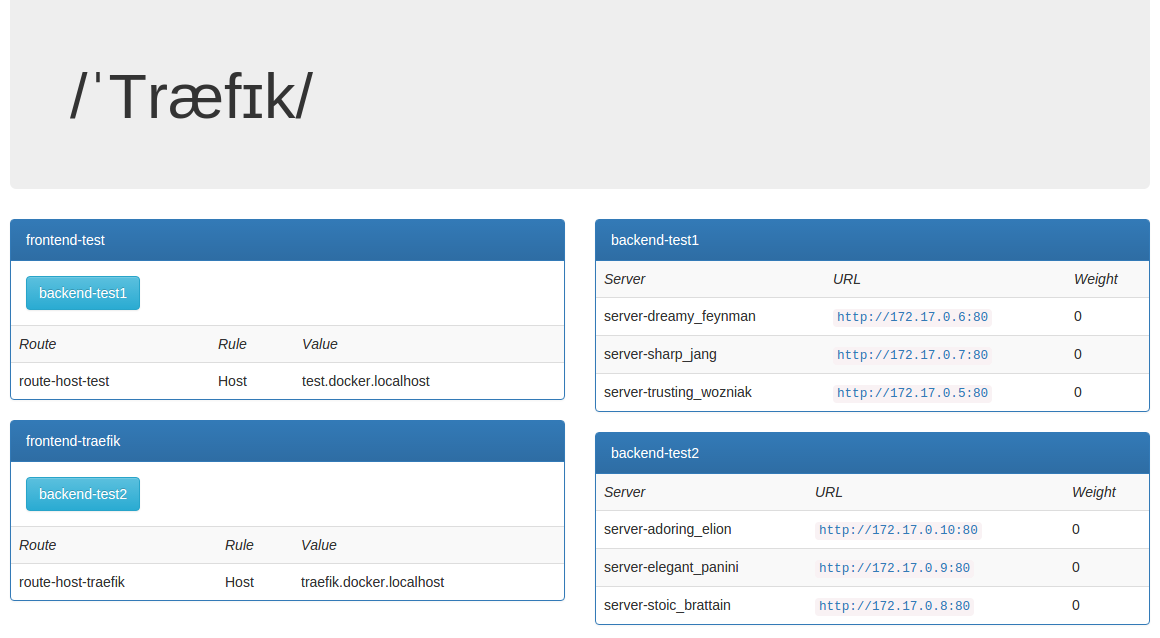
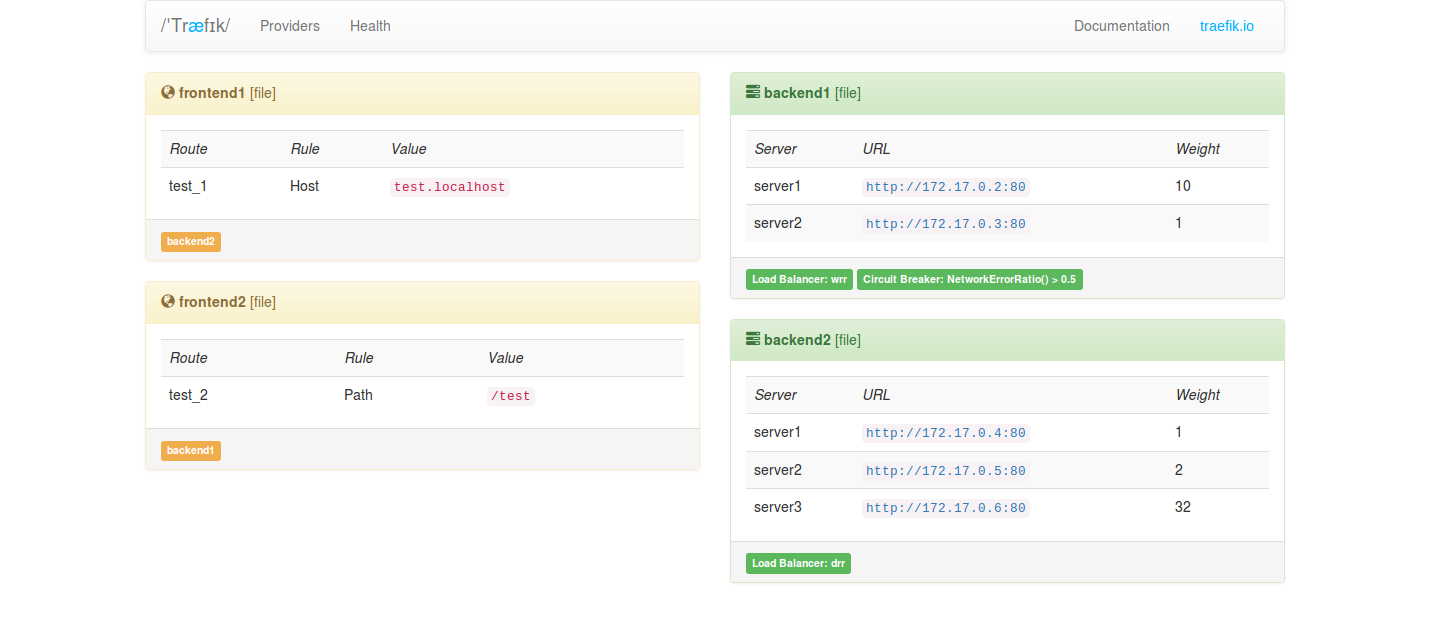
docs(dashboard): add screenshot
- doc style review
- add section "Web UI" with screenshot

diff --git a/README.md b/README.md
@@ -10,74 +10,79 @@ Træfɪk is a modern HTTP reverse proxy and load balancer made to deploy microse
 It supports several backends ([Docker :whale:](https://www.docker.com/), [Mesos/Marathon](https://mesosphere.github.io/marathon/), [Consul](https://consul.io/), [Etcd](https://coreos.com/etcd/), [Zookeeper](https://zookeeper.apache.org), [BoltDB](https://github.com/boltdb/bolt), Rest API, file...) to manage its configuration automatically and dynamically.
 
 
-# Features
+## Features
 
-* No dependency hell, single binary made with go
-* Simple json Rest API
-* Simple TOML file configuration
-* Multiple backends supported: Docker, Mesos/Marathon, Consul, Etcd, and more to come
-* Watchers for backends, can listen change in backends to apply a new configuration automatically
-* Hot-reloading of configuration. No need to restart the process
-* Graceful shutdown http connections during hot-reloads
-* Circuit breakers on backends
-* Round Robin, rebalancer load-balancers
-* Rest Metrics
-* Tiny docker image included
-* SSL backends support
-* SSL frontend support
-* WebUI
+- No dependency hell, single binary made with go
+- Simple json Rest API
+- Simple TOML file configuration
+- Multiple backends supported: Docker, Mesos/Marathon, Consul, Etcd, and more to come
+- Watchers for backends, can listen change in backends to apply a new configuration automatically
+- Hot-reloading of configuration. No need to restart the process
+- Graceful shutdown http connections during hot-reloads
+- Circuit breakers on backends
+- Round Robin, rebalancer load-balancers
+- Rest Metrics
+- Tiny docker image included
+- SSL backends support
+- SSL frontend support
+- WebUI
 
-# Demo
+## Demo
 
 Here is a demo of Træfɪk using Docker backend, showing a load-balancing between two servers, hot reloading of configuration, and graceful shutdown.
 
 [![asciicast](https://asciinema.org/a/4tcyde7riou5vxulo6my3mtko.png)](https://asciinema.org/a/4tcyde7riou5vxulo6my3mtko)
 
-# Plumbing
+## Plumbing
 
-* [Oxy](https://github.com/mailgun/oxy/): an awsome proxy library made by Mailgun guys
-* [Gorilla mux](https://github.com/gorilla/mux): famous request router
-* [Negroni](https://github.com/codegangsta/negroni): web middlewares made simple
-* [Manners](https://github.com/mailgun/manners): graceful shutdown of http.Handler servers
+- [Oxy](https://github.com/mailgun/oxy/): an awsome proxy library made by Mailgun guys
+- [Gorilla mux](https://github.com/gorilla/mux): famous request router
+- [Negroni](https://github.com/codegangsta/negroni): web middlewares made simple
+- [Manners](https://github.com/mailgun/manners): graceful shutdown of http.Handler servers
 
-# Quick start
+## Quick start
 
-* The simple way: grab the latest binary from the [releases](https://github.com/emilevauge/traefik/releases) page and just run it with the [sample configuration file](https://raw.githubusercontent.com/EmileVauge/traefik/master/traefik.sample.toml):
+- The simple way: grab the latest binary from the [releases](https://github.com/emilevauge/traefik/releases) page and just run it with the [sample configuration file](https://raw.githubusercontent.com/EmileVauge/traefik/master/traefik.sample.toml):
 
-```
+```shell
 ./traefik traefik.toml
 ```
 
-* Use the tiny Docker image:
+- Use the tiny Docker image:
 
-```
+```shell
 docker run -d -p 8080:8080 -p 80:80 -v $PWD/traefik.toml:/traefik.toml emilevauge/traefik
 ```
 
-* From sources:
+- From sources:
 
-```
+```shell
 git clone https://github.com/EmileVauge/traefik
 ```
 
-# Documentation
+## Documentation
 
 You can find the complete documentation [here](docs/index.md).
 
-# Benchmarks
+## Benchmarks
 
 Refer to the [benchmarks section](docs/index.md#benchmarks) in the documentation.
 
-# Contributing
+## Web UI
 
-## Building
+You can access to a simple HTML frontend of Træfik.
 
-You need either [Docker](https://github.com/docker/docker) and
-``make``, or `go` and `godep` in order to build traefik.
+![HTML frontend](docs/img/web.frontend.png)
 
-### Using Docker and Makefile
+## Contributing
 
-You need to run the ``binary`` target. This will create binaries for
+### Building
+
+You need either [Docker](https://github.com/docker/docker) and `make`, or `go` and `godep` in order to build traefik.
+
+#### Using Docker and Makefile
+
+You need to run the `binary` target. This will create binaries for
 linux and darwin platforms in the `dist` folder.
 
 ```bash
@@ -101,7 +106,7 @@ $ ls dist/
 traefik*  traefik_darwin-386*  traefik_darwin-amd64*  traefik_linux-386*  traefik_linux-amd64*  traefik_linux-arm*
 ```
 
-### Using `godep`
+#### Using `godep`
 
 The idea behind `godep` is the following :
 
@@ -125,7 +130,7 @@ $ godep go test ./...
 ok      _/home/vincent/src/github/vdemeester/traefik    0.004s
 ```
 
-## Tests
+### Tests
 
 You can run unit tests using the `test-unit` target and the
 integration test using the `test-integration` target.
